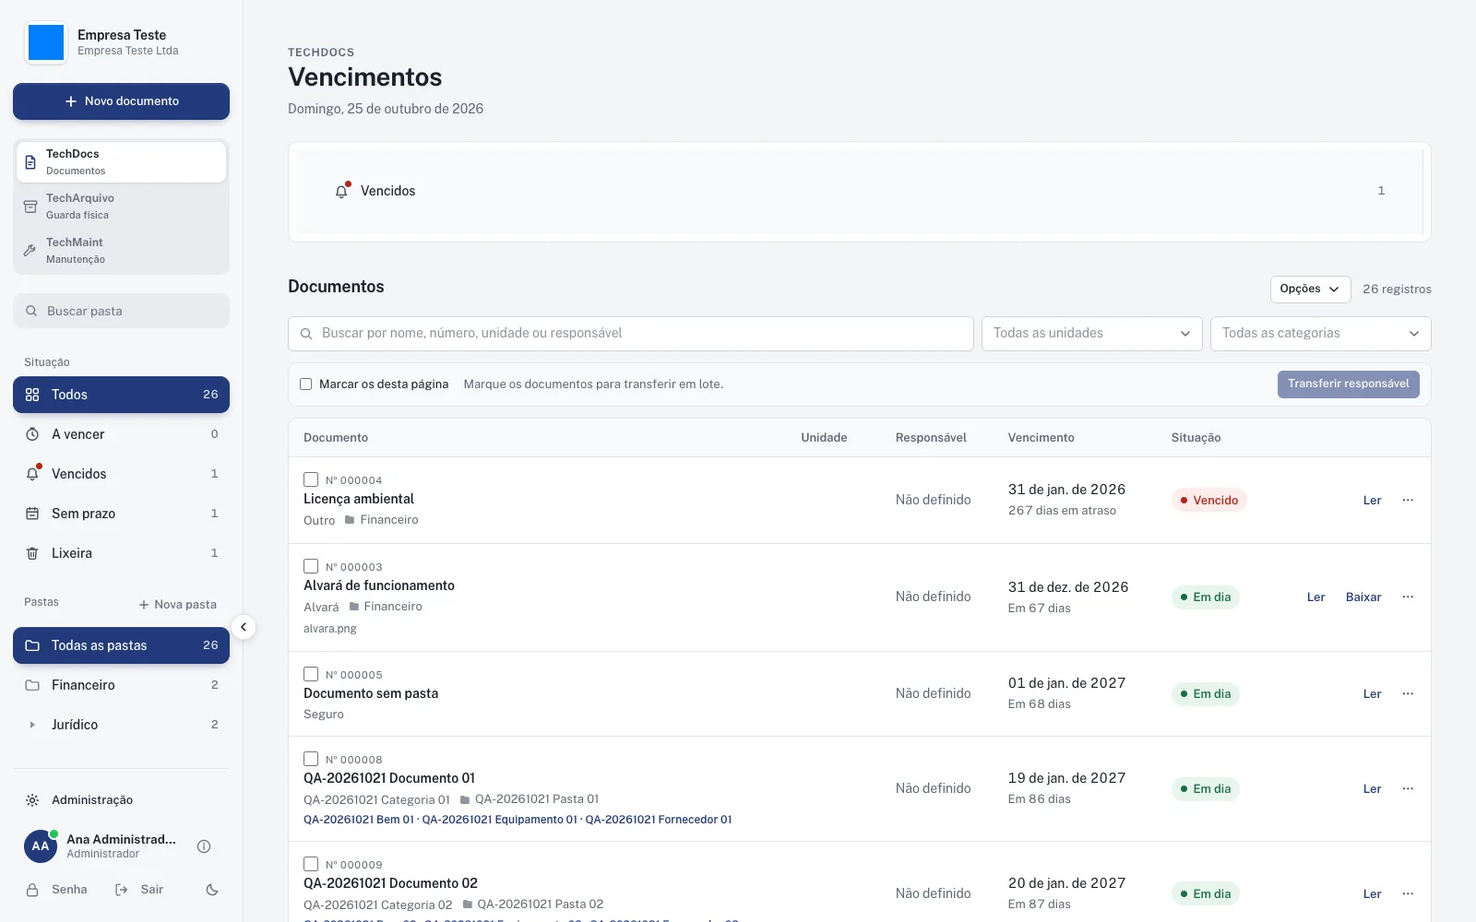
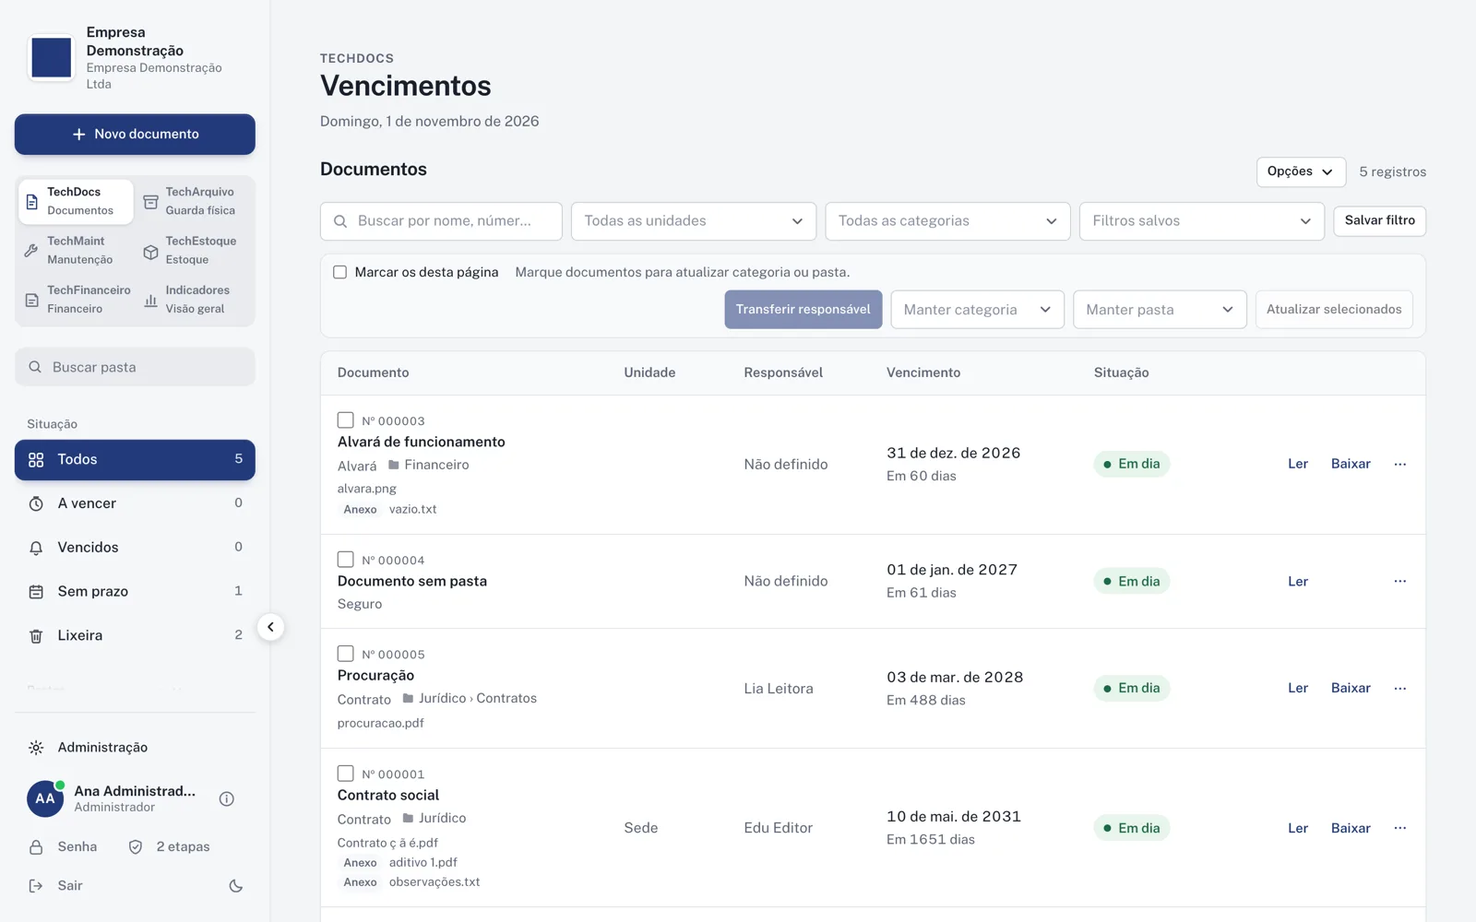
feat: Cortexis Ops com TechEstoque, TechFinanceiro e Indicadores
A página passa a apresentar os seis módulos, com telas novas e as
novidades de TechDocs e TechMaint. A segurança descreve a versão atual:
duas etapas para todos, backup cifrado e empresas isoladas no banco.
O ERP Controle de Stock sai do site e a home volta a 8 projetos.

diff --git a/cortexis-ops.html b/cortexis-ops.html
@@ -4,12 +4,12 @@
 <meta charset="UTF-8">
 <meta name="viewport" content="width=device-width, initial-scale=1.0">
 <title>Cortexis Ops — Cortexis Tech</title>
-<meta name="description" content="Cortexis Ops 2026.10 reúne o TechDocs, o TechArquivo e o TechMaint: documentos e vencimentos, guarda física em caixas e manutenção da frota, com perfis, auditoria e backups diários.">
+<meta name="description" content="Cortexis Ops 2026.10 reúne TechDocs, TechArquivo, TechMaint, TechEstoque, TechFinanceiro e Indicadores: documentos, arquivo, frota, vendas, compras, estoque e financeiro num só acesso.">
 <link rel="canonical" href="https://www.cortexistech.com/cortexis-ops.html">
 <meta property="og:type" content="website">
 <meta property="og:url" content="https://www.cortexistech.com/cortexis-ops.html">
 <meta property="og:title" content="Cortexis Ops — Cortexis Tech">
-<meta property="og:description" content="Cortexis Ops 2026.10 reúne o TechDocs, o TechArquivo e o TechMaint: documentos e vencimentos, guarda física em caixas e manutenção da frota.">
+<meta property="og:description" content="Documentos, arquivo, frota, vendas, compras, estoque e financeiro num só acesso, com indicadores da empresa inteira.">
 <meta property="og:image" content="https://www.cortexistech.com/img/og-cortexis.jpg">
 <meta property="og:image:width" content="1200">
 <meta property="og:image:height" content="630">
@@ -56,7 +56,7 @@
       <a href="produtos-mvps.html" class="back-link">← Voltar aos produtos</a>
       <p class="eyebrow"><span class="eyebrow-dot"></span>Produto próprio · versão 2026.10</p>
       <h1 class="section-title">Cortexis Ops</h1>
-      <p class="section-sub">Documentos, arquivo de papel e manutenção da frota no mesmo acesso. O TechDocs cuida dos prazos, o TechArquivo sabe em que caixa cada papel está, e o TechMaint acompanha embarcações, veículos e máquinas até o encerramento da ordem de serviço.</p>
+      <p class="section-sub">A operação da empresa num só acesso. Documentos e prazos, arquivo de papel, manutenção da frota, vendas, compras, estoque e financeiro trabalham ligados, e os Indicadores mostram o resultado de tudo no mesmo painel.</p>
       <div class="ops-hero-actions">
         <a href="contato.html" class="btn btn-primary">Pedir uma demonstração</a>
         <a href="#modulos" class="card-link">Conhecer os módulos ↓</a>
@@ -68,16 +68,16 @@
     <div class="wrap">
       <div class="ops-shot-grid">
         <figure class="ops-frame">
-          <p class="ops-shot-label">TechDocs</p>
-          <img src="img/ops/techdocs.webp" alt="Vencimentos do TechDocs, com a lista de documentos e a situação de cada prazo" width="1600" height="1000">
+          <p class="ops-shot-label">Indicadores</p>
+          <img src="img/ops/indicadores.webp" alt="Indicadores do Cortexis Ops com saldo, contas a receber e a pagar, resultado e gráfico de receitas e despesas" width="1600" height="1000">
         </figure>
         <figure class="ops-frame">
-          <p class="ops-shot-label">TechArquivo</p>
-          <img src="img/ops/caixas.webp" alt="Caixas do TechArquivo com código, sala, corredor, armário e prateleira" width="1600" height="1000">
+          <p class="ops-shot-label">TechFinanceiro</p>
+          <img src="img/ops/financeiro.webp" alt="DRE do TechFinanceiro por competência, com receitas, custos e despesas" width="1600" height="1000">
         </figure>
         <figure class="ops-frame">
-          <p class="ops-shot-label">TechMaint</p>
-          <img src="img/ops/techmaint.webp" alt="Painel da frota do TechMaint, com embarcações, veículos e máquinas" width="1600" height="1000">
+          <p class="ops-shot-label">TechEstoque</p>
+          <img src="img/ops/funil.webp" alt="Funil de vendas do TechEstoque com oportunidades por etapa" width="1600" height="1000">
         </figure>
       </div>
     </div>
@@ -85,23 +85,38 @@
 
   <section class="ops-modules page-body">
     <div class="wrap">
-      <p class="eyebrow"><span class="eyebrow-dot"></span>Três módulos, um só acesso</p>
-      <h2 class="section-title">Do prazo digital à ordem de serviço.</h2>
+      <p class="eyebrow"><span class="eyebrow-dot"></span>Seis áreas, um só acesso</p>
+      <h2 class="section-title">Do prazo do documento ao resultado do mês.</h2>
       <div class="ops-module-grid">
         <article class="ops-module">
           <span class="ops-module-tag">TechDocs · Documentos</span>
           <h3>Nenhum prazo vence no escuro.</h3>
-          <p>Alvarás, certidões, licenças, contratos e seguros com vencimento, responsável, unidade e pasta. O sistema avisa antes de vencer e guarda os arquivos com histórico completo.</p>
+          <p>Alvarás, certidões, licenças, contratos e seguros com vencimento, responsável, revisão e histórico completo. O sistema avisa antes de vencer.</p>
         </article>
         <article class="ops-module">
           <span class="ops-module-tag">TechArquivo · Guarda física</span>
           <h3>Cada papel tem endereço.</h3>
-          <p>Empresa, sala, corredor, armário, prateleira e caixa. Empréstimos, prazos de guarda e eliminação com aprovação, ligados ao documento digital quando ele existe.</p>
+          <p>Empresa, sala, corredor, armário, prateleira e caixa. Empréstimos, prazos de guarda e eliminação com aprovação, ligados ao documento digital.</p>
         </article>
         <article class="ops-module">
           <span class="ops-module-tag">TechMaint · Manutenção</span>
-          <h3>A frota, do horímetro à OS.</h3>
-          <p>Embarcações, veículos e máquinas, com planos por horas, quilômetros ou calendário, ordens de serviço, estoque, tripulação e custos. O documento do TechDocs pode ficar ligado ao bem.</p>
+          <h3>A frota, da avaria à OS.</h3>
+          <p>Embarcações, veículos e máquinas, com planos, avarias e solicitações, ordens de serviço passo a passo, tripulação e custos.</p>
+        </article>
+        <article class="ops-module">
+          <span class="ops-module-tag">TechEstoque · Vendas e compras</span>
+          <h3>Do orçamento à entrega.</h3>
+          <p>Funil de vendas, orçamentos e pedidos, cotações e compras, fabricação por receita e saldo por custo médio, num cadastro único de itens.</p>
+        </article>
+        <article class="ops-module">
+          <span class="ops-module-tag">TechFinanceiro · Financeiro</span>
+          <h3>O caixa que fecha com o banco.</h3>
+          <p>Contas, lançamentos, conciliação do extrato, DRE, fluxo de caixa e fechamento do mês. Compra, venda e OS chegam como contas a pagar ou a receber.</p>
+        </article>
+        <article class="ops-module">
+          <span class="ops-module-tag">Indicadores · Visão geral</span>
+          <h3>A empresa num painel só.</h3>
+          <p>Finanças, vendas, funil, estoque, compras e manutenção com gráficos por mês e os maiores clientes, produtos e fornecedores.</p>
         </article>
       </div>
     </div>
@@ -110,18 +125,18 @@
   <section class="ops-feature page-body">
     <div class="wrap ops-feature-inner">
       <div class="ops-feature-copy">
-        <p class="ops-feature-label">TechDocs</p>
-        <h2>Prazos sob controle, todos os dias.</h2>
+        <p class="ops-feature-label">Indicadores</p>
+        <h2>A empresa inteira, em números.</h2>
         <ul class="ops-list">
-          <li><strong>Situação de cada prazo:</strong> em dia, a vencer, vencido ou sem prazo, com contagem por pasta, unidade e categoria.</li>
-          <li><strong>Aviso por e-mail às 8h:</strong> para o responsável, quem cadastrou e os administradores, com antecedência definida por categoria ou por documento.</li>
-          <li><strong>Pastas por setor:</strong> até cinco níveis. Arrastar uma pasta do computador recria a estrutura e cadastra um documento por arquivo.</li>
-          <li><strong>Lista mestra e relatórios:</strong> impressão agrupada por pasta, relatórios personalizados em CSV ou PDF e transferência de responsável em lote.</li>
+          <li><strong>Num só painel:</strong> finanças, vendas, funil, estoque, compras e manutenção, sem montar planilha.</li>
+          <li><strong>Gráficos por mês:</strong> receitas e despesas, vendas e os maiores clientes, produtos e fornecedores.</li>
+          <li><strong>Sempre atualizado:</strong> a posição de hoje é ao vivo, e o histórico se atualiza a cada 15 minutos.</li>
+          <li><strong>Por permissão e plano:</strong> cada empresa vê só os próprios números, dos módulos que contratou.</li>
         </ul>
       </div>
       <figure class="ops-frame">
-        <img src="img/ops/techdocs.webp" alt="Vencimentos do TechDocs, com o TechDocs, o TechArquivo e o TechMaint no mesmo menu" width="1600" height="1000" loading="lazy">
-        <figcaption>Vencimentos do TechDocs, no mesmo acesso do TechArquivo e do TechMaint.</figcaption>
+        <img src="img/ops/indicadores-vendas.webp" alt="Indicadores de vendas com vendido no período, funil em aberto, gráfico por mês e maiores clientes" width="1600" height="1000" loading="lazy">
+        <figcaption>Vendas do período, gráfico por mês e maiores clientes. Dados fictícios.</figcaption>
       </figure>
     </div>
   </section>
@@ -129,11 +144,68 @@
   <section class="ops-feature ops-feature-alt page-body">
     <div class="wrap ops-feature-inner">
       <div class="ops-feature-copy">
+        <p class="ops-feature-label">TechFinanceiro</p>
+        <h2>O financeiro ligado à operação.</h2>
+        <ul class="ops-list">
+          <li><strong>Contas e lançamentos:</strong> caixa, banco, cartão e investimento, com competência, vencimento, parcelas e contratos recorrentes.</li>
+          <li><strong>Conciliação bancária:</strong> importa o extrato OFX ou CSV sem duplicar linhas e dá baixa no que estava pendente.</li>
+          <li><strong>DRE e fluxo de caixa:</strong> por caixa ou competência, com projeção e resultado por centro de custo.</li>
+          <li><strong>Controle de verdade:</strong> razão que não se altera, fechamento do mês e alçada de pagamento: quem lança não aprova.</li>
+        </ul>
+      </div>
+      <figure class="ops-frame">
+        <img src="img/ops/financeiro.webp" alt="DRE por competência com receitas, custos e despesas e a porcentagem de cada linha" width="1600" height="1000" loading="lazy">
+        <figcaption>DRE por competência, com cada linha sobre a receita. Dados fictícios.</figcaption>
+      </figure>
+    </div>
+  </section>
+
+  <section class="ops-feature page-body">
+    <div class="wrap ops-feature-inner">
+      <div class="ops-feature-copy">
+        <p class="ops-feature-label">TechEstoque</p>
+        <h2>Vender, comprar e saber o que tem.</h2>
+        <ul class="ops-list">
+          <li><strong>Funil de vendas:</strong> oportunidades por etapa, valor esperado, previsão, motivo da perda e histórico de contatos.</li>
+          <li><strong>Orçamento e pedido:</strong> o orçamento aceito vira pedido, com entrega parcial ou total, baixa no estoque e conta a receber.</li>
+          <li><strong>Compras com aprovação:</strong> cotação entre fornecedores, pedido pela alçada e recebimento por nota, parcial ou total.</li>
+          <li><strong>Saldo confiável:</strong> custo médio, mínimo por produto, fabricação por receita e histórico que não se apaga.</li>
+        </ul>
+      </div>
+      <figure class="ops-frame">
+        <img src="img/ops/vendas.webp" alt="Lista de vendas com data, cliente, total, custo, margem e situação" width="1600" height="1000" loading="lazy">
+        <figcaption>Vendas com total, custo e margem de cada nota. Dados fictícios.</figcaption>
+      </figure>
+    </div>
+  </section>
+
+  <section class="ops-feature ops-feature-alt page-body">
+    <div class="wrap ops-feature-inner">
+      <div class="ops-feature-copy">
+        <p class="ops-feature-label">TechDocs</p>
+        <h2>Prazos sob controle, todos os dias.</h2>
+        <ul class="ops-list">
+          <li><strong>Situação de cada prazo:</strong> em dia, a vencer, vencido ou sem prazo, com contagem por pasta, unidade e categoria.</li>
+          <li><strong>Aviso por e-mail às 8h:</strong> para o responsável, quem cadastrou e os administradores, com antecedência por categoria ou documento.</li>
+          <li><strong>Revisão de documentos:</strong> quem edita submete, o Administrador aprova ou pede ajustes, e as versões aprovadas ficam guardadas.</li>
+          <li><strong>Lista mestra e lote:</strong> impressão por pasta, relatórios em CSV ou PDF, filtros salvos e edição de vários documentos de uma vez.</li>
+        </ul>
+      </div>
+      <figure class="ops-frame">
+        <img src="img/ops/techdocs.webp" alt="Vencimentos do TechDocs com o seletor dos módulos do Cortexis Ops" width="1600" height="1000" loading="lazy">
+        <figcaption>Vencimentos do TechDocs, no mesmo acesso dos demais módulos.</figcaption>
+      </figure>
+    </div>
+  </section>
+
+  <section class="ops-feature page-body">
+    <div class="wrap ops-feature-inner">
+      <div class="ops-feature-copy">
         <p class="ops-feature-label">TechArquivo</p>
         <h2>O arquivo físico, organizado como o digital.</h2>
         <ul class="ops-list">
-          <li><strong>Localização completa:</strong> empresa, sala, corredor, armário, prateleira, caixa e pasta, com níveis que se adaptam à organização de cada cliente.</li>
-          <li><strong>Caixas numeradas e etiquetas QR:</strong> códigos CX-001, CX-002 gerados automaticamente e etiquetas para imprimir e ler pela câmera.</li>
+          <li><strong>Localização completa:</strong> empresa, sala, corredor, armário, prateleira, caixa e pasta, adaptados a cada cliente.</li>
+          <li><strong>Caixas numeradas e etiquetas QR:</strong> códigos gerados automaticamente e etiquetas para imprimir e ler pela câmera.</li>
           <li><strong>Empréstimos e devoluções:</strong> com quem está, desde quando e a devolução prevista, com histórico de cada documento.</li>
           <li><strong>Prazo de guarda e eliminação:</strong> proposta, aprovação e execução registradas, com número de protocolo.</li>
         </ul>
@@ -145,21 +217,21 @@
     </div>
   </section>
 
-  <section class="ops-feature page-body">
+  <section class="ops-feature ops-feature-alt page-body">
     <div class="wrap ops-feature-inner">
       <div class="ops-feature-copy">
         <p class="ops-feature-label">TechMaint</p>
-        <h2>A manutenção da frota, no mesmo sistema.</h2>
+        <h2>A manutenção da frota, do aviso à assinatura.</h2>
         <ul class="ops-list">
-          <li><strong>Painel da frota:</strong> planos em dia, vencidos e a vencer, OS abertas, contadores sem leitura e documentos vencidos, por embarcação, veículo ou máquina.</li>
-          <li><strong>Planos e ordens de serviço:</strong> a cada N horas, N quilômetros ou N dias — o que vencer primeiro. A OS segue do planejamento à assinatura e ao encerramento.</li>
-          <li><strong>Horímetro e hodômetro:</strong> leitura do diário, média de uso, troca de contador e planos que acompanham as horas de vida do equipamento.</li>
-          <li><strong>Estoque, tripulação e custos:</strong> paiol de bordo, requisições, certificados, ferramentas com calibração e o custo de cada OS.</li>
+          <li><strong>Avarias e solicitações:</strong> o que acontece a bordo é registrado, e o Chefe de Máquinas abre a OS corretiva ou recusa com justificativa.</li>
+          <li><strong>OS passo a passo:</strong> tarefas com Realizado ou Não realizado, leitura do horímetro pela OS, fotos, laudos e assinatura.</li>
+          <li><strong>Planos preventivos:</strong> a cada N horas, N quilômetros ou N dias, o que vencer primeiro.</li>
+          <li><strong>Ligado ao financeiro:</strong> materiais, serviços e homem-hora de fornecedor viram custo da OS e conta a pagar.</li>
         </ul>
       </div>
       <figure class="ops-frame">
-        <img src="img/ops/techmaint.webp" alt="Painel da frota do TechMaint separado por tipo de bem, com planos vencidos e ordens de serviço" width="1600" height="1000" loading="lazy">
-        <figcaption>Painel da frota, com a situação de cada tipo de bem.</figcaption>
+        <img src="img/ops/os.webp" alt="Ordem de serviço do TechMaint com vencimento, histórico e tarefas passo a passo" width="1600" height="1000" loading="lazy">
+        <figcaption>Ordem de serviço com as tarefas de cada etapa.</figcaption>
       </figure>
     </div>
   </section>
@@ -192,16 +264,16 @@
           <p>Cada arquivo recebe um SHA-256 no envio. A conferência aponta qualquer arquivo trocado depois.</p>
         </article>
         <article class="card">
-          <h3>Backup diário</h3>
-          <p>Cópia completa toda madrugada, com 30 dias de histórico, download em .zip e restauração pela própria tela.</p>
+          <h3>Backup diário cifrado</h3>
+          <p>Cópia completa toda madrugada, com 30 dias de histórico, download sempre cifrado e restauração pela própria tela.</p>
         </article>
         <article class="card">
-          <h3>Sede e filiais</h3>
-          <p>CNPJ validado, inclusive no novo formato alfanumérico, e documentos filtrados por unidade.</p>
+          <h3>Duas etapas para todos</h3>
+          <p>Verificação por aplicativo autenticador obrigatória, sessão com limite de 12 horas e encerramento após 20 minutos sem uso.</p>
         </article>
         <article class="card">
-          <h3>LGPD e Google Cloud</h3>
-          <p>Hospedado no Google Cloud, com política de privacidade própria e lixeira de 30 dias para o que for excluído.</p>
+          <h3>Cada empresa isolada</h3>
+          <p>Várias empresas no mesmo sistema, cada uma separada das demais no banco de dados, com política de privacidade própria.</p>
         </article>
       </div>
     </div>
@@ -212,7 +284,7 @@
       <div>
         <p class="eyebrow"><span class="eyebrow-dot"></span>No celular</p>
         <h2 class="section-title">O mesmo sistema, no bolso.</h2>
-        <p class="section-sub">Consultar um prazo, abrir um arquivo, ver em que caixa um papel está ou acompanhar a frota funciona no Android, no iPhone e no iPad.</p>
+        <p class="section-sub">Consultar um prazo, abrir um arquivo, acompanhar a frota ou ver o painel do financeiro funciona no Android, no iPhone e no iPad.</p>
       </div>
       <div class="s26" role="img" aria-label="Cortexis Ops aberto num Samsung Galaxy, com os filtros de situação e os documentos em cartões">
         <span class="s26-btn s26-btn-vol" aria-hidden="true"></span>
@@ -237,7 +309,7 @@
   <section class="institucional page-body">
     <div class="wrap">
       <p class="eyebrow"><span class="eyebrow-dot"></span>Filme</p>
-      <h2 class="section-title ops-film-title">Os três módulos, um depois do outro.</h2>
+      <h2 class="section-title ops-film-title">TechDocs, TechArquivo e TechMaint em movimento.</h2>
       <div class="institucional-player">
         <video
           data-film="ops"
@@ -245,7 +317,7 @@
           playsinline
           preload="metadata"
           poster="assets/cortexis-ops-modulos-poster.jpg"
-          title="Percurso pelos módulos do Cortexis Ops"
+          title="Percurso por TechDocs, TechArquivo e TechMaint"
         >
           <source src="assets/cortexis-ops-modulos.mp4" type="video/mp4">
         </video>
@@ -258,8 +330,8 @@
   <section class="contact contact-cta">
     <div class="wrap contact-cta-inner">
       <div>
-        <h2 class="section-title">Quer ver com os documentos da sua empresa?</h2>
-        <p class="section-sub">A gente mostra o Cortexis Ops com a sede, as filiais, os prazos, o arquivo e a frota de vocês.</p>
+        <h2 class="section-title">Quer ver com a operação da sua empresa?</h2>
+        <p class="section-sub">A gente mostra o Cortexis Ops com a sede, as filiais e os módulos que fazem sentido para vocês.</p>
       </div>
       <a href="contato.html" class="btn btn-primary">Pedir uma demonstração</a>
     </div>

diff --git a/index.html b/index.html
@@ -71,7 +71,7 @@
         </div>
         <div class="showcase-image">
           <img class="is-active" src="img/clinica/painel.webp" alt="Painel do TechClínica com as consultas do dia, recebimentos e contas a receber" data-href="techclinica.html" data-category="Agenda · Prontuário · Financeiro" data-title="TechClínica" data-kind="Produto próprio">
-          <img src="img/ops/techmaint.webp" alt="Painel da frota do Cortexis Ops, com planos de manutenção e ordens de serviço" data-href="cortexis-ops.html" data-category="TechDocs · TechArquivo · TechMaint" data-title="Cortexis Ops" data-kind="Produto próprio">
+          <img src="img/ops/indicadores.webp" alt="Indicadores do Cortexis Ops com saldo, contas a receber e a pagar e gráfico de receitas e despesas" data-href="cortexis-ops.html" data-category="Docs · Frota · Estoque · Financeiro" data-title="Cortexis Ops" data-kind="Produto próprio">
           <img src="img/financas/anuncio-1.webp" alt="Finanças Fácil: seu dinheiro com clareza executiva, 100% offline, criptografado e sem anúncios" data-href="financas-facil.html" data-category="App Android · Finanças pessoais" data-title="Finanças Fácil" data-kind="Produto próprio">
           <img src="img/financas/anuncio-2.webp" alt="Finanças Fácil: previsão do saldo e fatura do cartão no celular" data-href="financas-facil.html" data-category="App Android · Finanças pessoais" data-title="Finanças Fácil" data-kind="Produto próprio">
           <img src="img/portfolio/medsim.jpg" alt="Simulação de anamnese no MED-SIM, com o paciente virtual movido a IA respondendo perguntas" data-href="agentes-ia.html" data-category="Simulador clínico · Educação" data-title="MED-SIM" data-kind="Agente de IA">
@@ -170,7 +170,7 @@
 
   <section class="home-facts" aria-label="A Cortexis Tech em números">
     <div class="wrap home-facts-grid">
-      <div class="home-fact"><strong>9</strong><span>projetos no portfólio, de sites a agentes de IA</span></div>
+      <div class="home-fact"><strong>8</strong><span>projetos no portfólio, de sites a agentes de IA</span></div>
       <div class="home-fact"><strong>3</strong><span>produtos próprios: Cortexis Ops, TechClínica e Finanças Fácil</span></div>
       <div class="home-fact"><strong>5</strong><span>frentes de serviço, da ideia à manutenção</span></div>
       <div class="home-fact"><strong>1</strong><span>conversa direta com quem constrói o projeto</span></div>

diff --git a/produtos-mvps.html b/produtos-mvps.html
@@ -70,13 +70,13 @@
 
         <article class="card portfolio-card">
           <div class="portfolio-thumb portfolio-thumb-img">
-            <img src="img/ops/techmaint.webp" alt="Painel da frota do Cortexis Ops" loading="lazy">
+            <img src="img/ops/indicadores.webp" alt="Indicadores do Cortexis Ops" loading="lazy">
           </div>
           <p class="portfolio-tag">Produto próprio / SaaS</p>
-          <h3>Cortexis Ops — TechDocs, TechArquivo e TechMaint</h3>
-          <p>Documentos, arquivo físico e manutenção da frota num só sistema: vencimentos com aviso por e-mail, caixas com localização, planos e ordens de serviço, perfis por módulo, auditoria e backups diários.</p>
+          <h3>Cortexis Ops</h3>
+          <p>A operação da empresa num só sistema: TechDocs, TechArquivo, TechMaint, TechEstoque, TechFinanceiro e Indicadores, com vendas, compras, estoque, DRE, frota e documentos ligados entre si.</p>
           <ul class="portfolio-stack">
-            <li>Google Cloud</li>
+            <li>Supabase</li>
             <li>PostgreSQL</li>
           </ul>
           <a href="cortexis-ops.html" class="portfolio-link">Conhecer o Cortexis Ops →</a>
@@ -108,20 +108,6 @@
             <li>Jetpack Compose</li>
           </ul>
           <a href="financas-facil.html" class="portfolio-link">Conhecer o Finanças Fácil →</a>
-        </article>
-
-        <article class="card portfolio-card">
-          <div class="portfolio-thumb portfolio-thumb-icon">
-            <img src="img/portfolio/controle-estoque-icon.png" alt="Ícone do ERP Cortexis Tech — Controle de Stock" loading="lazy">
-          </div>
-          <p class="portfolio-tag">MVP / Produto digital</p>
-          <h3>ERP Cortexis Tech — Controle de Stock</h3>
-          <p>Aplicação desktop offline para gestão de estoque: matérias-primas, fabricação por receita (BOM), faturamento, relatórios e licenciamento por chave.</p>
-          <ul class="portfolio-stack">
-            <li>Electron</li>
-            <li>SQLite</li>
-          </ul>
-          <a href="contato.html" class="portfolio-link">Conversar sobre o Controle de Stock →</a>
         </article>
 
       </div>
